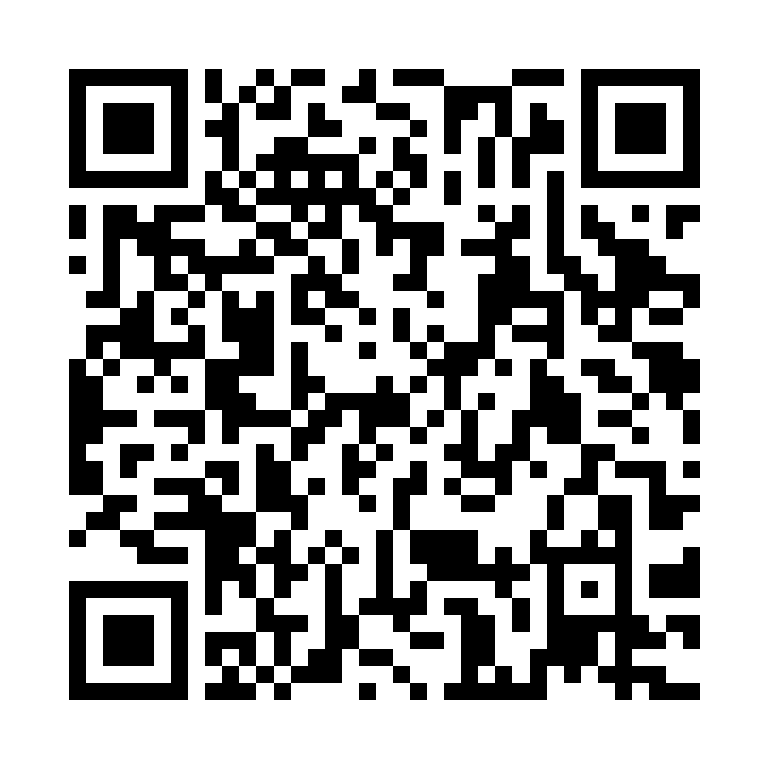
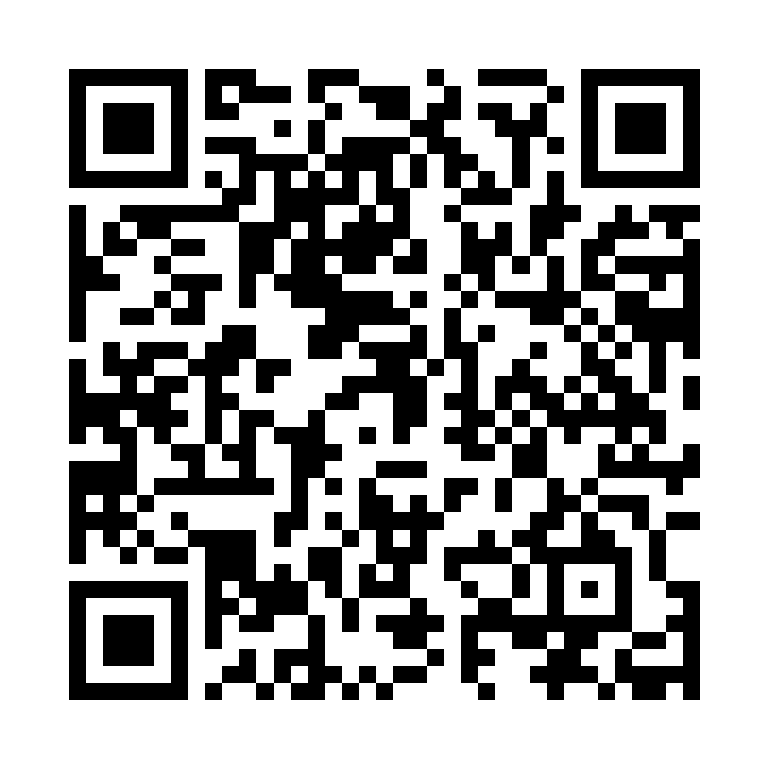
Publish verified Android 0.4.23 download and matching QR

Changed region(s): [[0.0625, 0.0625, 0.9375, 0.9375]]

diff --git a/docs/STATUS.md b/docs/STATUS.md
@@ -1,6 +1,6 @@
 # Trạng thái EHIS — tra cứu phiên bản tại đây
 
-**Source local ngày 18/11:** giao diện sáu màn theo mẫu mới, ba tab đáy theo vai trò, bản đồ lên trước trong ca đã nhận, chia sẻ hồ sơ có xác nhận và từ chối lời mời thực. GPS mới yêu cầu sai số thiết bị báo ≤30 m, tuổi ≤10 giây; chưa đo sai số vật lý trên Android. Đây là thay đổi source đang chờ duyệt web, chưa triển khai cloud/APK. Xem [Lab notes](LAB_NOTES.md) để phân biệt kiểm tra local và bản đang phát hành.
+**Cập nhật 19/11/2026 — Android 0.4.23/code21:** APK FINISHED, đã xác minh file thật; link/QR cùng artifact. Backend Vercel 0.4.23 và web/app web đã triển khai. Trang tải/QR mới đã đối chiếu đạt 37 tệp HTML/JS/CSS và 4 lượt QR khớp byte; tra [bằng chứng hiện hành](testing/verification/VERIFICATION_V0_4_23.md). APK23 chưa cài/nghiệm thu trên máy thật; không OTA. GPS mới dùng sai số thiết bị báo ≤30 m/tuổi ≤10 giây, không phải cam kết sai số vật lý. Các số liệu 14/11 trở về trước bên dưới là lịch sử.
 
 
 Cập nhật 14/11/2026. [Cây source đã dọn và kết quả kiểm tra](development/REPOSITORY_CLEANUP.md). QR mới đã triển khai cùng trang tải: 36 tệp web + 4 lượt QR khớp build. Chỉ diễn tập có hướng dẫn với dữ liệu giả; chưa tiếp nhận cấp cứu thật. [Quy trình bàn giao và vận hành](operations/HANDOVER_AND_MAINTENANCE.md) · [Bằng chứng15](https://github.com/Hoangcamng03/EHIS-Next/blob/c2bef1cfc2c3b823d19c2525303e447bc6793c22/docs/testing/verification/VERIFICATION_V0_4_15.md) · [Số liệu gốc](https://github.com/Hoangcamng03/EHIS-Next/blob/c2bef1cfc2c3b823d19c2525303e447bc6793c22/docs/testing/verification/VERIFICATION_V0_4_15.json).
@@ -13,7 +13,7 @@ Cập nhật 14/11/2026. [Cây source đã dọn và kết quả kiểm tra](dev
 
 **14/11:** Web người báo đã bỏ toàn bộ khung/nút 115; 6/6 bài UI local đạt, 36 tệp web + 4 lượt QR trên cloud khớp build. Tài khoản, trạng thái duyệt, quy trình và 22 tình huống manual chỉ tra tại [README riêng duy nhất](https://github.com/Hoangcamng03/EHIS-Next-Team-Access/blob/main/README.md). Không tạo APK mới cho thay đổi chỉ thuộc web/tài liệu.
 
-**Android mới nhất: 0.4.22 / code 20.** [APK](https://expo.dev/artifacts/eas/B_yFAptjy1mzBuchHzK-JnV8OyfWyB2k6_1SELMkADw.apk) · [Bằng chứng](testing/verification/VERIFICATION_V0_4_22.md). EAS FINISHED, artifact tải về đã kiểm tra đúng source/package/version/cloud/tài nguyên chuông. Chưa cài hoặc nghiệm thu 0.4.22 trên điện thoại; không OTA. Các mục APK 21/19 bên dưới là lịch sử.
+**Android mới nhất: 0.4.23 / code 21.** [APK](https://expo.dev/artifacts/eas/x5jIiZ7-dRt8eMQF5M4Kc_sVOH-E3YSLa_Xq02s6_90.apk) · [Bằng chứng](testing/verification/VERIFICATION_V0_4_23.md). Chứa giao diện sáu màn và các API/luồng mới; đã kiểm tra artifact, chưa nghiệm thu điện thoại. 0.4.22 và các bản bên dưới là lịch sử.
 
 **UAT cloud mới11/11:** [Kết quả và ảnh](testing/verification/CLOUD_UAT_2026_11_11.md).9tài khoản hư cấu mới, ca người báo qua điện thoại→TNV web→bàn giao→hoàn tất/readback403 đạt; vị trí TNV là fixtureAPI, chưa nghiệm thu GPS di chuyển/native. Web đã có liên kết QR/privacy trực tiếp và khôi phục bản đồ; backend vẫn21/f870ee3, APK21 hiện có chưa chứa các sửa web mới. Không chốt bản cuối cấp cứu thật khi các mục máy thật còn mở.
 
@@ -26,7 +26,7 @@ Cập nhật 14/11/2026. [Cây source đã dọn và kết quả kiểm tra](dev
 | Backend Vercel | 0.4.21 từ 05a0e16 đã deploy/probe đúng version/project; 36 callable không auth trả 401 | Chưa kiểm thử tải lớn cloud/worker liên tục/SLA; Spark/Hobby và quyền hiện có |
 | S22+/Android16 | Lần kiểm tra gần nhất APK19/code17; kết quả18: GPS tại chỗ, route, OFF/ON, Home/resume, report2 tự tải/ack PASS ở lượt thử | Tự thoát gián đoạn còn OPEN; bố cục/bấm nhầm/hoàn tất native18 chưa đạt; chưa đi bộ/đoGPS chuẩn/offline độc lập/toàn bộ chế độ âm thanh |
 | APK19/code17 | Đã cài S22+;3ca chờ, nhận E, chặn nhận D/A, bản2 tự tải/ack, GPS tại chỗ, hủy xác nhận arrival/hoàn tất và xác nhận hoàn tất native PASS. Kết thúc OFF/no active | Chưa nghiệm thu toàn bộ: tự thoát, offline độc lập, đi bộ GPS, nhiều máy/chế độ âm. Xem lab note10/11 |
-| Trang tải chung | [APK 0.4.22 / code 20](https://expo.dev/artifacts/eas/B_yFAptjy1mzBuchHzK-JnV8OyfWyB2k6_1SELMkADw.apk); file thực đã kiểm tra. QR mới trỏ trực tiếp APK 0.4.22; trang /install là đầu mối phiên bản | /install 200 trên cả hai tên miền, nhãn/link 0.4.22 đúng; chưa nghiệm thu 0.4.22 trên máy thật; không OTA |
+| Trang tải chung (19/11) | [APK 0.4.23 / code 21](https://expo.dev/artifacts/eas/x5jIiZ7-dRt8eMQF5M4Kc_sVOH-E3YSLa_Xq02s6_90.apk); manifest/bundle/chuông đã kiểm. QR trỏ chính file này; 37 tệp cloud và 4 QR khớp build | Chưa cài/nghiệm thu APK23 trên máy thật; không OTA |
 | Source/CI backend | a9134eb,CI42654274756 SUCCESS, có health assertions thật;72a186a đã qua16suite local/CI | CIba90 trước sửa FAIL vẫn được giữ; không đồng nghĩa nghiệm thu thiết bị/y tế |
 | Tải local mới | Portable:1000Auth/128session/32feed/32ca/320API, p95 cảnh báo 943 ms,PASS | Không phải1000người dùng cloud; Functions local vẫn RECHECK,p95=21866ms>15000ms; chưa chứng minh mọi API nhanh hơn bản cũ |
 | iOS native | Hoãn; iPhone dùng app web | Chưa IPA/TestFlight/tài khoản/ký/nghiệm thu iOS |

diff --git a/docs/LAB_NOTES.md b/docs/LAB_NOTES.md
@@ -1,5 +1,13 @@
 # EHIS — Lab notes
 
+## 2026-11-19 — hoàn tất APK 0.4.23 và QR tải tương ứng
+
+- Tiếp tục yêu cầu cung cấp QR sau khi chủ dự án bảo “làm tiếp”. EAS build `8869bcbe-27f9-42d1-9119-cd05d8e3eaf1` FINISHED, source b33e875, 0.4.23/code21. Đã tải APK 102,746,613 byte và kiểm package/version/cloud/quyền/tài nguyên chuông; SHA-256 trong bằng chứng. Không cài máy thật, không OTA, không tuyên bố thử GPS/chuông/rung đạt.
+- Backend 0.4.23 đã deploy Vercel READY (`dpl_DFY7sQEkYJoq4cz6do5uQ9MJzyvs`), health đúng project; 39 API từ chối không auth và maintenance 401. Hosting app/web đã cập nhật source mới, đang thay link/QR rồi đối chiếu artifact. Không thay billing, IAM hay tạo khóa.
+- Bộ kiểm tra trước phát hành chạy lại: lint/typecheck/build, 34 unit backend và 64 client đạt. UI bản cuối ở phiên trước 9/9 trong 35,2 giây; không coi là kết quả native. QR PNG/SVG được tạo từ đúng APK đã xác minh bằng script hiện hành; chưa quét bằng điện thoại trong phiên.
+- Push main lần đầu bị từ chối do remote có commit 9103070 chỉ dọn lab note cũ. Đã fetch/đối chiếu, merge giữ lịch sử và push main thành công, không force push hoặc ghi đè code của nhóm. Một lệnh quét secret bị PowerShell lỗi quoting, đã chuyển sang helper tệp và quét 76 tệp thay đổi không thấy mẫu private key/token; không in giá trị bí mật. Không tự cài thêm thư viện quét QR khi môi trường không có sẵn bộ giải mã.
+- Hoàn tất Hosting 0.4.23 và trang tải: đối chiếu 37 tệp HTML/JS/CSS, 4 lượt QR PNG/SVG trên hai tên miền đều khớp byte; link/QR đúng APK23. Catalog tài liệu ban đầu báo thiếu hai mục lịch sử22 khi thay bằng23; đã giữ lại mục22 có nhãn lịch sử và thêm23 là bản hiện hành, check repo đạt (52 Markdown/46 mục/381 link). Không chỉnh số liệu cũ. Trang tải/QR và hướng dẫn nhóm đã đồng bộ; tài khoản/mật khẩu vẫn chỉ ở README riêng. Chưa quét/cài/nghiệm thu điện thoại trong phiên.
+
 ## 2026-11-18 — yêu cầu QR bản Android chứa giao diện mới
 
 - Chủ dự án yêu cầu QR cho bản vừa cập nhật sau khi xem bản web/ảnh sáu màn. Thực hiện build Android preview APK mới, không OTA và không đưa lên cửa hàng. Không dùng lại QR 0.4.22 để gọi là bản mới.

diff --git a/docs/testing/verification/VERIFICATION_V0_4_23.md b/docs/testing/verification/VERIFICATION_V0_4_23.md
@@ -1,0 +1,12 @@
+# Android 0.4.23 / code 21 — 19/11/2026
+
+- [Tải APK](https://expo.dev/artifacts/eas/x5jIiZ7-dRt8eMQF5M4Kc_sVOH-E3YSLa_Xq02s6_90.apk) · [Expo build](https://expo.dev/accounts/ehiss-team/projects/ehis-next/builds/8869bcbe-27f9-42d1-9119-cd05d8e3eaf1) · [QR tải](../../../frontend/web/public/ehis-download-qr.png) · [Trang cài](https://ehis-next-20261021-hc03.web.app/install).
+- Source `b33e87511dcf92092c65fd5898570129c0201516`; EAS FINISHED, đúng package `com.hoangcamng.ehisnext`, phiên bản/code, môi trường cloud, quyền rung/thông báo, không yêu cầu microphone, có tài nguyên chuông nền và foreground trong APK thực.
[1 lines of base64/hex data omitted]
+- Backend Vercel 0.4.23 READY, health đúng project, 39 callable không auth đều trả 401 và endpoint maintenance trả 401. Không đổi billing/IAM/khóa.
+- Source đã qua lint/typecheck, 34 backend unit, 64 client; giao diện cuối 9/9 trong 35,2 giây. Đây là bằng chứng local, không phải số đo thực địa.
+- APK23 chưa cài/nghiệm thu trên điện thoại, chưa thử GPS di chuyển, chuông/rung/nhận nền. Chưa có kết quả quét QR bằng điện thoại trong phiên này. Không phát OTA hoặc lên cửa hàng.
+- Hoàn tất ca đang mở và tắt Sẵn sàng trước khi cài đè; giữ app/dữ liệu, không gỡ app. iPhone không cài APK; dùng bản web hiện hành.
+- [Số liệu và trạng thái triển khai](VERIFICATION_V0_4_23.json). Trạng thái Hosting sẽ ghi sau đối chiếu byte; không coi upload là kiểm chứng thiết bị.
+
+**Hosting đã xác minh:** 37 tệp HTML/JS/CSS và 4 QR khớp byte sau triển khai. Link và QR trỏ cùng APK 0.4.23.

diff --git a/docs/demo/TEAM_LINKS.md b/docs/demo/TEAM_LINKS.md
@@ -12,7 +12,7 @@ Gửi link trang này cho thành viên mới. Đọc từ mục 1 đến 4 để
 
 [Bộ dữ liệu và UAT cloud mới11/11](../testing/verification/CLOUD_UAT_2026_11_11.md) · [Tài khoản UAT riêng](https://github.com/Hoangcamng03/EHIS-Next-Team-Access/blob/main/README.md). Ảnh mới dùng hồ sơ hư cấu trên Firebase thật; tra phần chưa thử trước khi báo cáo nghiệm thu.
 
-> **Bản Android mới nhất cho nhóm: 0.4.22 / code 20 (13/11/2026).** [Tải APK trực tiếp](https://expo.dev/artifacts/eas/B_yFAptjy1mzBuchHzK-JnV8OyfWyB2k6_1SELMkADw.apk) · [Trang build](https://expo.dev/accounts/ehiss-team/projects/ehis-next/builds/3d7867f6-1285-4bff-825d-379e7fe61fab) · [Bằng chứng và phần chưa thử](../testing/verification/VERIFICATION_V0_4_22.md). APK đã xác minh tệp; chưa nghiệm thu 0.4.22 trên điện thoại. Hoàn tất ca, tắt Sẵn sàng trước khi cài đè; không gỡ app/xóa dữ liệu. [QR tải app](../../frontend/web/public/ehis-download-qr.png) trỏ thẳng tới APK 0.4.22 đã xác minh; trang cài chung luôn có bản đang bàn giao.
+> **Bản Android mới nhất: 0.4.23 / code 21 (19/11/2026).** [Tải APK](https://expo.dev/artifacts/eas/x5jIiZ7-dRt8eMQF5M4Kc_sVOH-E3YSLa_Xq02s6_90.apk) · [QR tải](../../frontend/web/public/ehis-download-qr.png) · [Bằng chứng và phần chưa thử](../testing/verification/VERIFICATION_V0_4_23.md). Đã xác minh tệp APK; chưa nghiệm thu trên điện thoại. Hoàn tất ca và tắt Sẵn sàng trước khi cài đè; không gỡ app/xóa dữ liệu. iPhone dùng bản web, không cài APK.
 
 ## 1. Bắt đầu theo thứ tự
 

diff --git a/docs/README.md b/docs/README.md
@@ -61,8 +61,10 @@ Tài liệu được chia thành thư mục theo công việc. Bốn đầu mố
 
 | Trang | Nội dung |
 | --- | --- |
-| [VERIFICATION_V0_4_22](testing/verification/VERIFICATION_V0_4_22.md) | APK mới cho thay đổi giao diện đã duyệt; trạng thái build/artifact/thiết bị tách riêng |
-| [VERIFICATION_V0_4_22.json](testing/verification/VERIFICATION_V0_4_22.json) | Bằng chứng tải APK thật, phiên bản và SHA-256; chưa nghiệm thu thiết bị |
+| [VERIFICATION_V0_4_23](testing/verification/VERIFICATION_V0_4_23.md) | APK 0.4.23: giao diện sáu màn, QR tải và giới hạn nghiệm thu máy thật |
+| [VERIFICATION_V0_4_23.json](testing/verification/VERIFICATION_V0_4_23.json) | Bằng chứng APK, phiên bản, SHA-256, backend và Hosting |
+| [VERIFICATION_V0_4_22](testing/verification/VERIFICATION_V0_4_22.md) | Lịch sử APK 0.4.22; không phải bản tải hiện hành |
+| [VERIFICATION_V0_4_22.json](testing/verification/VERIFICATION_V0_4_22.json) | Số liệu artifact lịch sử 0.4.22, giữ nguyên kết quả cũ |
 | [Đối chiếu góp ý và cải thiện12/11](testing/verification/PRODUCT_REVIEW_2026_11_12.md) | UI, bảo mật, kiểm thử; phần làm được miễn phí và điều kiện còn thiếu |
 | [Bằng chứng cải thiện12/11](testing/verification/PRODUCT_REVIEW_2026_11_12.json) | Số liệu chạy local, lỗi giữ lại, hash source/ảnh và các mục chưa kiểm chứng |
 | [CLOUD_UAT_2026_11_11](testing/verification/CLOUD_UAT_2026_11_11.md) | Hồ sơ hư cấu trên Firebase thật, phối hợp điện thoại và ảnh cloud mới |
